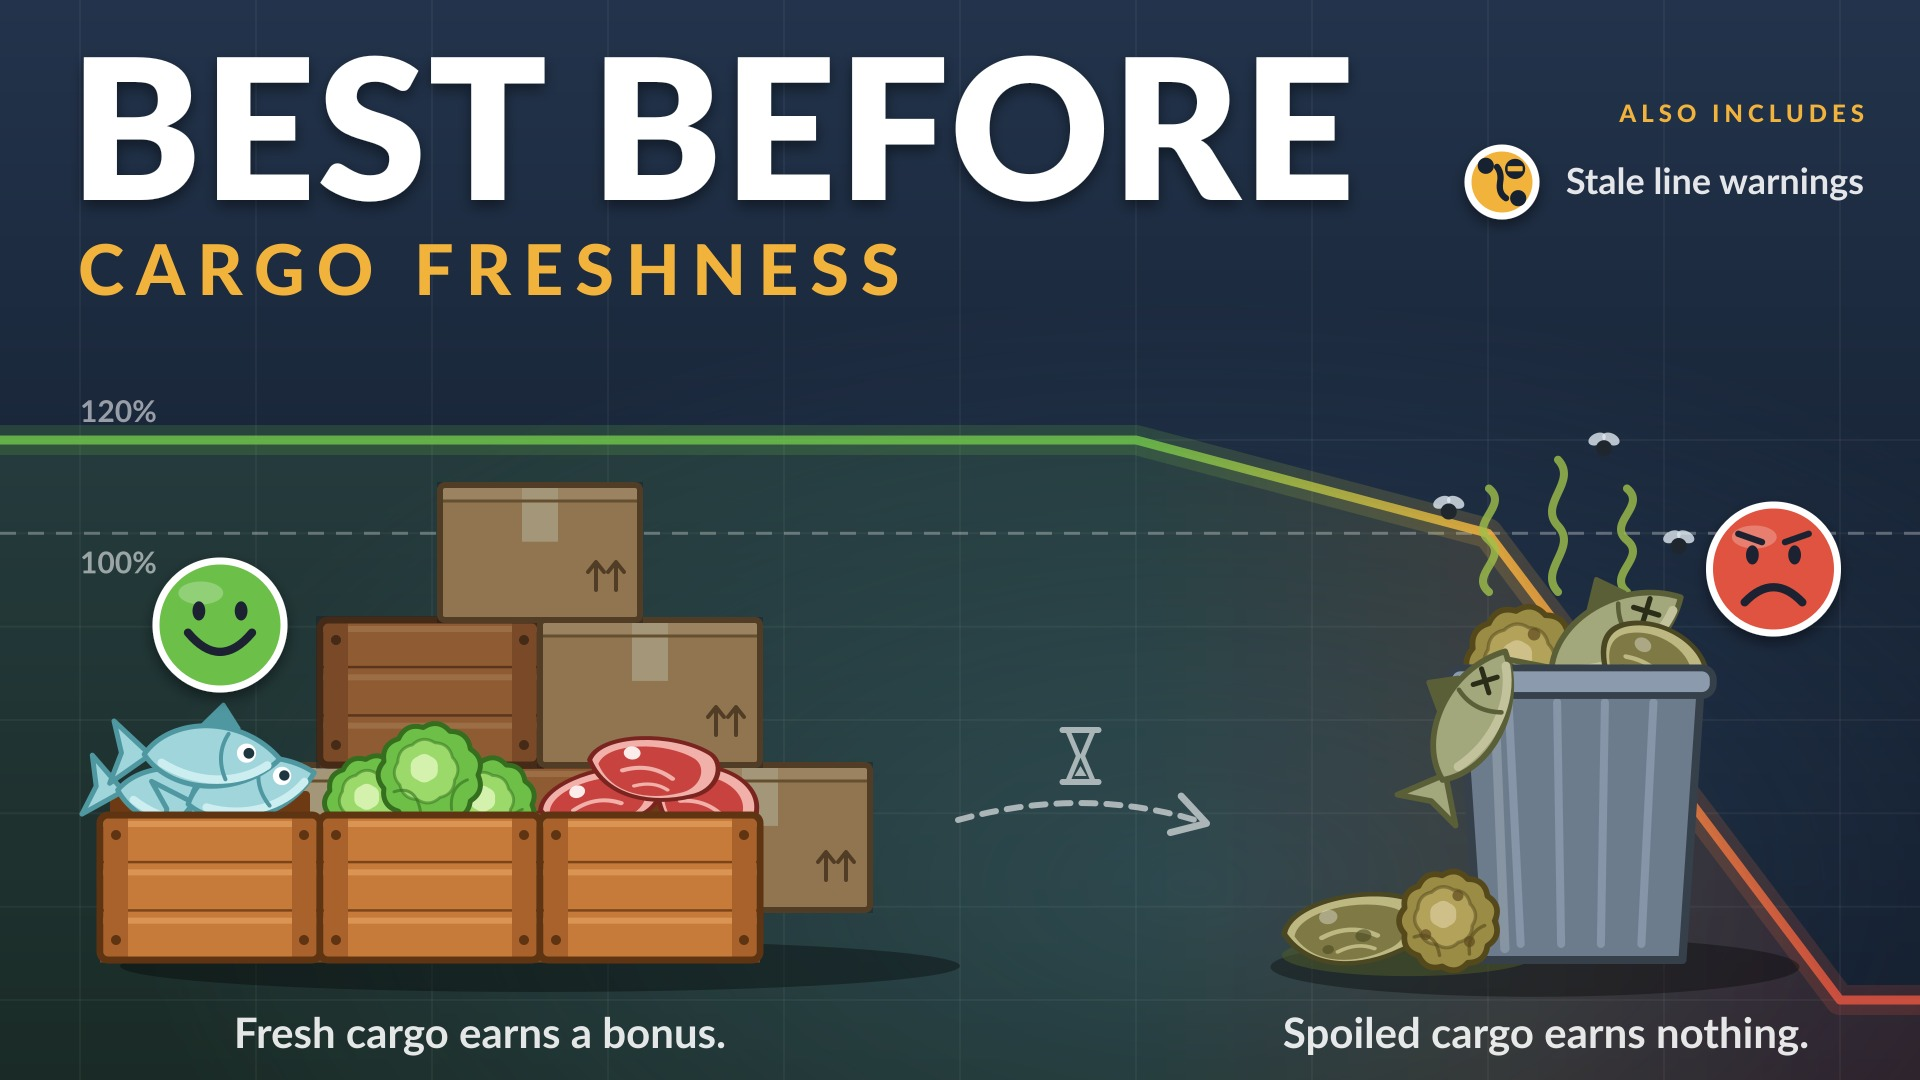
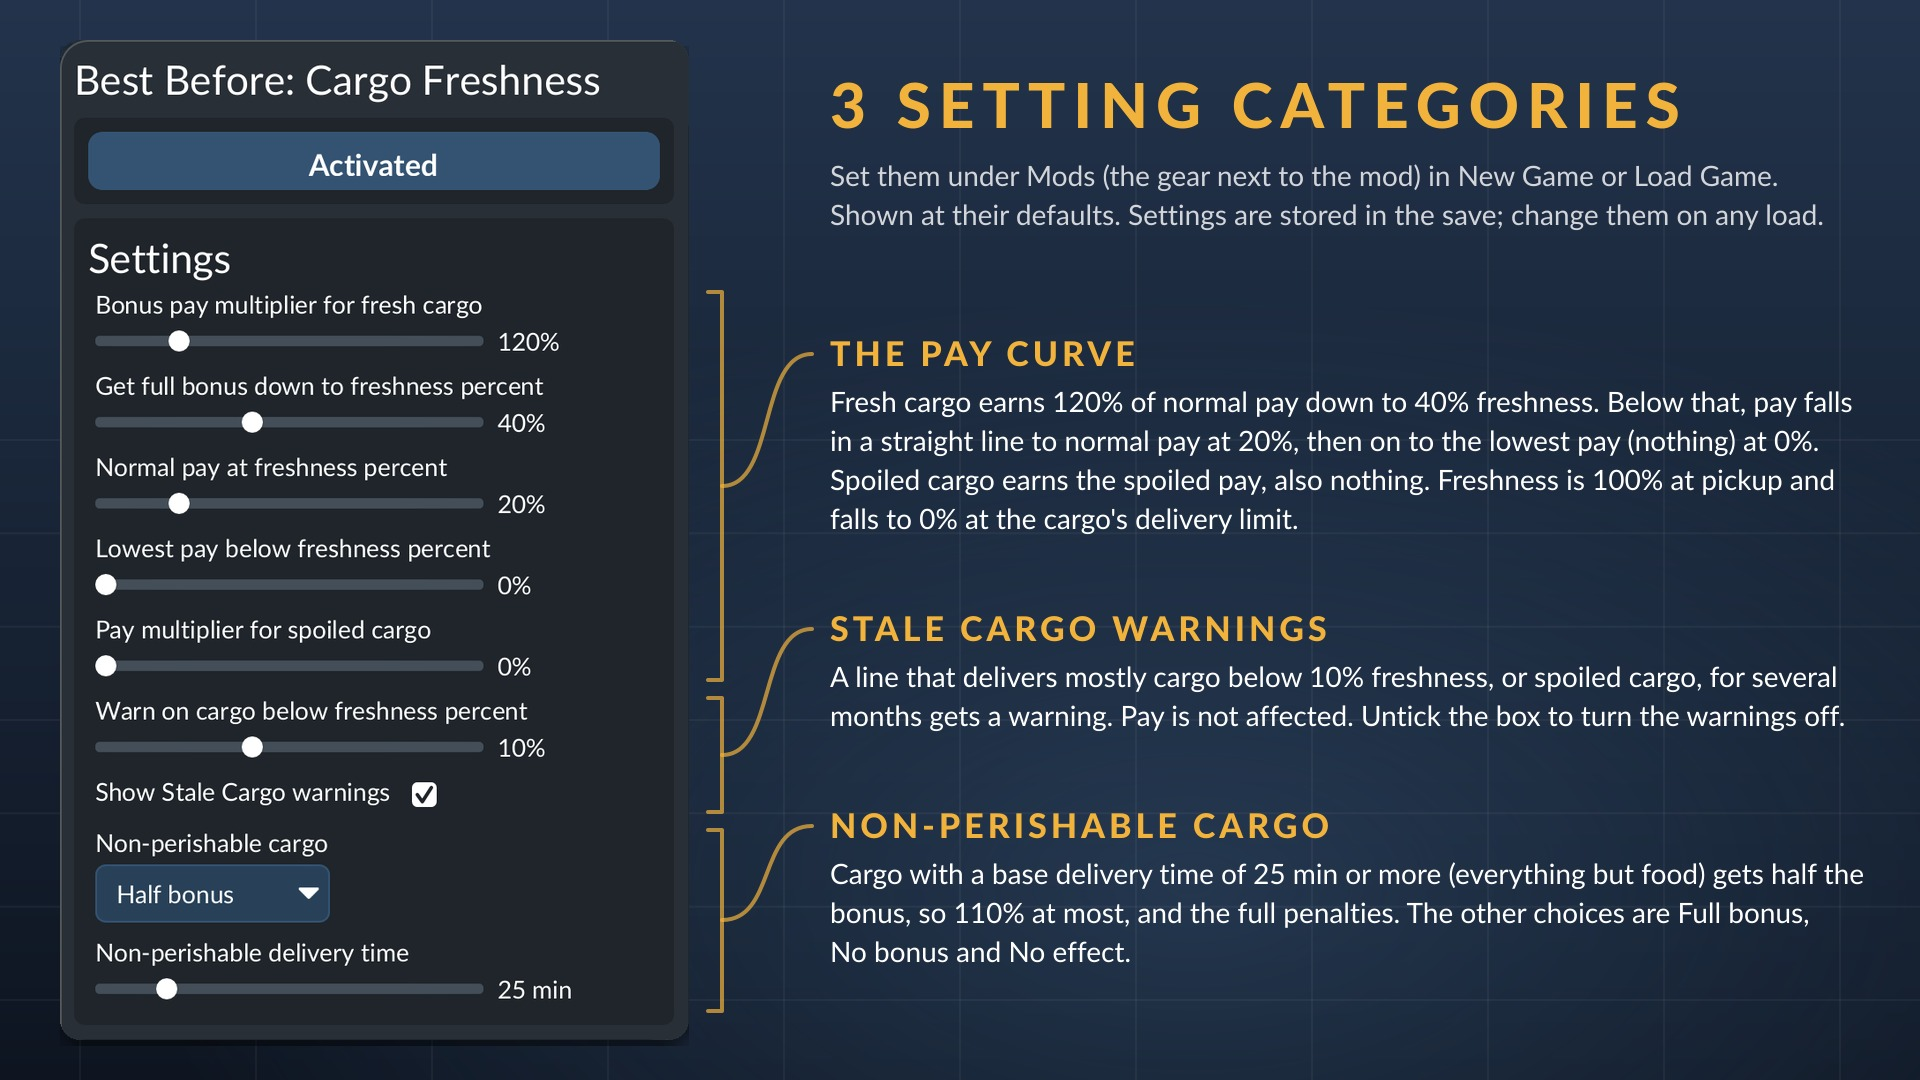
Gallery order: keep the files as the dialog swapped them (cover 1.jpg, settings workshop_preview.jpg)
The uploader's gallery orders by file name, and moving a thumbnail swaps
the files' contents. Tools, README, CLAUDE.md and docs point at the new names.

diff --git a/tools/make_gallery.py b/tools/make_gallery.py
@@ -1,4 +1,4 @@
-"""Draw the listing's first gallery image (1920x1080 JPG): the mod's settings at their defaults, as a screenshot of the dialog's
+"""Draw the listing's second gallery image (1920x1080 JPG): the mod's settings at their defaults, as a screenshot of the dialog's
 Settings box, with each group of settings explained beside it. The dialog shows no tooltips for mod settings, so this image
 and the description are where a player learns what they do. The background is the cover's (tools/make_preview.py) with its
 grid but not its curve, which would run through the text.
@@ -9,7 +9,7 @@ dialog's title and Settings box; a new shot of the same dialog at the same resol
 expects them. The same cut, scaled down, is the settings image in docs/changing-settings.md, which the tool also writes.
 
 Usage: python3 tools/make_gallery.py [OUT_FILE] [--shot SCREENSHOT.png]
-OUT_FILE defaults to best_before_1/_metadata/1.jpg, SCREENSHOT.png to SHOT. Needs rsvg-convert and Lato.
+OUT_FILE defaults to best_before_1/_metadata/workshop_preview.jpg (the gallery's second image, see docs/publishing.md), SCREENSHOT.png to SHOT. Needs rsvg-convert and Lato.
 """
 import subprocess
 import sys
@@ -130,7 +130,7 @@ def main():
         i = args.index("--shot")
         shot = Path(args[i + 1])
         del args[i:i + 2]
-    out = Path(args[0]) if args else ROOT / "best_before_1/_metadata/1.jpg"
+    out = Path(args[0]) if args else ROOT / "best_before_1/_metadata/workshop_preview.jpg"
     cut = Image.open(shot).convert("RGB").crop(CROP)
     cut.resize((round(cut.width * DOCS_SCALE), round(cut.height * DOCS_SCALE)), Image.LANCZOS).save(DOCS_IMAGE, optimize=True)
     print(DOCS_IMAGE)

diff --git a/tools/make_preview.py b/tools/make_preview.py
@@ -4,7 +4,7 @@ The background curve is the default curve from mod.json. The upper right corner 
 
 Usage: python3 tools/make_preview.py [OUT_FILE] [--version 0.1] [--keep-svg SVG_FILE]
 --keep-svg also writes the SVG the image is rendered from (for example to local/preview/workshop_preview.svg); keep it out of best_before_1/.
-OUT_FILE defaults to best_before_1/_metadata/workshop_preview.jpg, where the game looks for a mod's preview.
+OUT_FILE defaults to best_before_1/_metadata/1.jpg, the gallery's first image; copy it to 0.jpg for the cover (docs/publishing.md).
 """
 import math
 import shutil
@@ -384,7 +384,7 @@ def main():
         i = args.index("--keep-svg")
         keep_svg = Path(args[i + 1])
         del args[i:i + 2]
-    out = Path(args[0] if args else Path(__file__).resolve().parent.parent / "best_before_1/_metadata/workshop_preview.jpg")
+    out = Path(args[0] if args else Path(__file__).resolve().parent.parent / "best_before_1/_metadata/1.jpg")
     from PIL import Image
     with tempfile.TemporaryDirectory() as tmp:
         svg, png = Path(tmp) / "preview.svg", Path(tmp) / "preview.png"

diff --git a/docs/publishing.md b/docs/publishing.md
@@ -26,7 +26,7 @@
 6. Open the page (**Open Mod Page** in the dialog) and check the text, the files and their dates.
 7. Test the published copy: remove the `staging_area` link (with the link in place the game loads the staging copy even when the mod is subscribed: it logs `Multiple (2) mods with same id found best_before_1, the one from .../staging_area/best_before_1/ has been selected`, so such a run says nothing about the published file), subscribe, load a save with the mod active, and look in the log for `BEST_BEFORE version <the new number>` and the downloaded `_content.json` for all files. Only then tell anyone it works. Unsubscribe and restore the link afterwards.
 
-The dialog's other parts: **Preview** (the cover, see [Preview image](#preview-image)), a gallery that picks up `workshop_preview.jpg` by itself, **Tags** (with + to add), **Author**, **View**, **Report**, and at the top a pencil, **Open Folder** and **Refresh**.
+The dialog's other parts: **Preview** (the cover, see [Preview image](#preview-image)), the gallery (see [Gallery](#gallery)), **Tags** (with + to add), **Author**, **View**, **Report**, and at the top a pencil, **Open Folder** and **Refresh**.
 
 ## Hub search and tiles
 
@@ -107,15 +107,26 @@ Source and notes: https://github.com/WuphonsReach/tf3-best-before-mod (MIT licen
 
 ## Preview image
 
-`best_before_1/_metadata/workshop_preview.jpg` is drawn by `tools/make_preview.py`. `best_before_1/_metadata/0.jpg` is the cover: the uploader made it when the image was picked in the dialog's Preview slot, and it is byte-identical to `workshop_preview.jpg`. Both are committed. The name `0.jpg` follows the developer's own mods, whose cover is `0.png`.
+The cover is `best_before_1/_metadata/0.jpg`, the image in the dialog's Preview slot and on the mod's card. It is drawn by `tools/make_preview.py`, which writes `1.jpg`; `0.jpg` is a byte-identical copy. Both are committed. The name `0.jpg` follows the developer's own mods, whose cover is `0.png`.
 
 To re-create `0.jpg` after the image is redrawn, or if it is lost:
 
-1. Redraw (optional): `python3 tools/make_preview.py [--version 0.1]` writes `workshop_preview.jpg` (1920x1080; needs `rsvg-convert` and the Lato font).
-2. Copy it: `cp best_before_1/_metadata/workshop_preview.jpg best_before_1/_metadata/0.jpg`. Check with `cmp` that the two are identical.
+1. Redraw (optional): `python3 tools/make_preview.py [--version 0.1]` writes `1.jpg` (1920x1080; needs `rsvg-convert` and the Lato font).
+2. Copy it: `cp best_before_1/_metadata/1.jpg best_before_1/_metadata/0.jpg`. Check with `cmp` that the two are identical.
 3. In the game, open the mod's dialog in My Mods and click the Preview slot (camera icon) to pick the image, so the uploader takes it as the cover. Without a cover the card shows a "?".
 
 Whether the uploader needs step 2 or makes `0.jpg` from step 3 alone is not known.
+
+## Gallery
+
+The gallery under the large image on the mod's page (and in the dialog) holds `1.jpg` (the cover) and then `workshop_preview.jpg` (the settings at their defaults, drawn by `tools/make_gallery.py`). `0.jpg` is not in it.
+
+- **The order is the file names.** On the 1.3 upload (30 Oct 2026) the dialog showed `1.jpg` first; when it held the settings image, the settings came first. Each thumbnail in the dialog has a small < (Move Left), > (Move Right) and bin over its top right corner. Moving a thumbnail swapped the two files' contents on disk and wrote nothing else, so the order lives only in which image has which name. Commit the files as the dialog leaves them, or the next upload goes back to the old order.
+- **The page follows the dialog's order.** After that upload the mod.io page showed the cover thumbnail first and the settings thumbnail second.
+- **mod.io keeps old names.** It already had a `workshop_preview.jpg` (the cover, from earlier uploads), so it stored the new one as `workshop_preview.1.jpg`; the old file stays on its image server. The files there are byte-identical to the repo's (`image.modcdn.io/mods/7cd8/6459472/<name>` for the original, `thumb.modcdn.io/mods/7cd8/6459472/crop_1280x720/<name>` and `crop_320x180` for the sizes the page uses; a size not yet asked for redirects once while it is rendered).
+- **Clicking the second thumbnail did not show it** right after the 1.3 upload, although every size of `workshop_preview.1.jpg` loaded correctly on its own. Other mods' galleries (Bus And Truck Bay, Industry Upgrades) worked at the same time, so it looks like a stale cache on mod.io's side; not yet rechecked.
+- **Other mods' layout.** Industry Upgrades stores `0.png` (the cover) and `1.png` to `7.png`, and no `workshop_preview`. Renaming ours the same way (`2.jpg` for the settings image, no `workshop_preview.jpg`) would avoid mod.io's renaming; whether the game's dialog then makes a `workshop_preview.jpg` by itself is not known.
+- **Unknown:** whether a `2.jpg` would join the gallery, and where it would sort.
 
 ## What was checked
 

diff --git a/TODO.md b/TODO.md
@@ -27,11 +27,12 @@ A fourth entry in the "Non-perishable cargo" list, second after Full bonus: the 
 - [x] Half bonus, penalty side: on the 1974 save, 217 logs and late fuel units below break-even were paid exactly run A's (Full bonus) rate, unit for unit; `verify_run.py` passed (30 Oct 2026, 1,997 units).
 - [ ] No bonus and No effect still behave as before at their new positions (`loadParams` 3 and 4).
 
-## Listing gallery images (for the 1.2 upload)
+## Listing gallery images
 
 The cover `0.jpg` already draws the pay curve; a third image showing pay in play was considered and skipped.
 
-- [ ] Check that the uploader takes numbered images from `best_before_1/_metadata/` into the gallery: put `1.jpg` there, press Refresh in the mod's dialog, and see whether the gallery shows it. Only `workshop_preview.jpg` (picked up by itself) and `0.jpg` (written from the Preview slot) are known so far.
-- [x] `1.jpg`: the settings at their defaults with each group explained beside them, drawn by `tools/make_gallery.py` from shot 08:24:13 (30 Oct 2026, kept in `art/gallery/`). The same capture replaces `docs/images/mod-settings-dialog.png` in `docs/changing-settings.md`.
-- [ ] `2.jpg`: a line window with the Stale Cargo banner, taken in 1.2 (text "below the mod's stale freshness setting"); add the [L] line manager with the icon on that line's row if it fits in one frame.
-- [ ] Write the gallery images into `docs/publishing.md` once the check above shows how the uploader takes them.
+- [x] Check that the uploader takes `1.jpg` into the gallery: it does, ordered by file name before `workshop_preview.jpg` (1.3 upload, 30 Oct 2026; [Gallery](docs/publishing.md#gallery)). The settings image came first, so the thumbnails were moved in the dialog, which swapped the files: the cover is now `1.jpg`, the settings image `workshop_preview.jpg`.
+- [x] Settings image (now `workshop_preview.jpg`): the settings at their defaults with each group explained beside them, drawn by `tools/make_gallery.py` from shot 08:24:13 (30 Oct 2026, kept in `art/gallery/`). The same capture replaces `docs/images/mod-settings-dialog.png` in `docs/changing-settings.md`.
+- [ ] A third image: a line window with the Stale Cargo banner, taken in 1.2 (text "below the mod's stale freshness setting"); add the [L] line manager with the icon on that line's row if it fits in one frame.
+- [ ] Recheck the mod.io page: clicking the second thumbnail did not show the settings image right after the 1.3 upload (30 Oct 2026), although the image itself loads ([Gallery](docs/publishing.md#gallery)). If it still fails, rename to `0.jpg`/`1.jpg`/`2.jpg` without `workshop_preview.jpg`, as Industry Upgrades does, and re-upload.
+- [ ] Whether a `2.jpg` joins the gallery, and where it sorts (needed for the third image).

diff --git a/README.md b/README.md
@@ -6,7 +6,7 @@ A Transport Fever 3 mod that makes cargo pay follow freshness. Fresh cargo earns
 
 <p>
   <img src="best_before_1/_metadata/0.jpg" alt="Best Before: Cargo Freshness. Fresh cargo earns a bonus, spoiled cargo earns nothing." width="49%">
-  <img src="best_before_1/_metadata/1.jpg" alt="The mod's settings at their defaults, in three categories, each explained" width="49%">
+  <img src="best_before_1/_metadata/workshop_preview.jpg" alt="The mod's settings at their defaults, in three categories, each explained" width="49%">
 </p>
 
 ## In short
@@ -51,7 +51,7 @@ The work is done by `best_before_1/content/probe.script.tl`, which answers the t
 - `tools/extract_run.py` cuts a run's arrivals, balance snapshots and facts (save, settings, totals) out of a raw log into small CSV and JSON files under `local/runs/`. It corrects the pay prediction to the save's Cargo Income setting and earned rank, so runs from different saves can be replayed together.
 - `tools/replay_curve.py` applies the five-setting curve and the non-perishable settings to the arrivals in one or more logs or extracted `.arrivals.csv` files and prints the net change in pay, each run on the curve it was played on. `--use-defaults` replays on `settings.tl`'s numbers instead; `--sweep`, `--solve-bonus` and `--tables` help tune the defaults without the game.
 - `tools/cpu_sample.py` samples the game's simulation and main threads and the whole machine's CPU every few seconds while you play (two CSV files under `local/cpu/`), then reports CPU seconds per game month to compare log levels. Run `sample` for at least 5 minutes while the game runs, then `report` with the game log.
-- `tools/make_preview.py` draws the listing's preview image, `best_before_1/_metadata/workshop_preview.jpg`.
+- `tools/make_preview.py` draws the listing's cover, `best_before_1/_metadata/1.jpg` (copied to `0.jpg`), and `tools/make_gallery.py` the settings image, `best_before_1/_metadata/workshop_preview.jpg`.
 
 ## Documentation
 

diff --git a/CLAUDE.md b/CLAUDE.md
@@ -35,11 +35,11 @@ python3 tools/replay_curve.py local/runs/<name>.arrivals.csv [more]   # pool the
 python3 tools/cpu_sample.py sample local/cpu/<name> [--also "steam|code"]   # writes <name>.process.csv and <name>.system.csv; run at least 5 minutes
 python3 tools/cpu_sample.py report local/cpu/<name> [--log local/logs/<log>.txt | --game-months N]
 
-# Redraw the mod's preview image (best_before_1/_metadata/workshop_preview.jpg, 1920x1080; needs rsvg-convert and the Lato font)
+# Redraw the mod's cover (best_before_1/_metadata/1.jpg, the gallery's first image, 1920x1080; needs rsvg-convert and the Lato font)
 python3 tools/make_preview.py [--version 0.1] [--keep-svg local/preview/workshop_preview.svg]   # the version goes in the upper right corner, kept clear for it; --keep-svg also saves the SVG it was drawn from (not into best_before_1/)
-cp best_before_1/_metadata/workshop_preview.jpg best_before_1/_metadata/0.jpg   # 0.jpg is the cover the in-game uploader made from it (byte-identical); copy again after every redraw
+cp best_before_1/_metadata/1.jpg best_before_1/_metadata/0.jpg   # 0.jpg is the Preview slot's cover (byte-identical); copy again after every redraw
 
-# Redraw the gallery's 1.jpg: the settings at their defaults with each group explained beside them, on the cover's background
+# Redraw the gallery's second image (workshop_preview.jpg; the gallery orders by file name, see docs/publishing.md): the settings at their defaults with each group explained beside them, on the cover's background
 python3 tools/make_gallery.py [--shot art/gallery/<screenshot>.png]   # cuts the dialog from the screenshot kept in art/gallery/ (not shipped); also rewrites docs/images/mod-settings-dialog.png from the same cut
 ```
 
